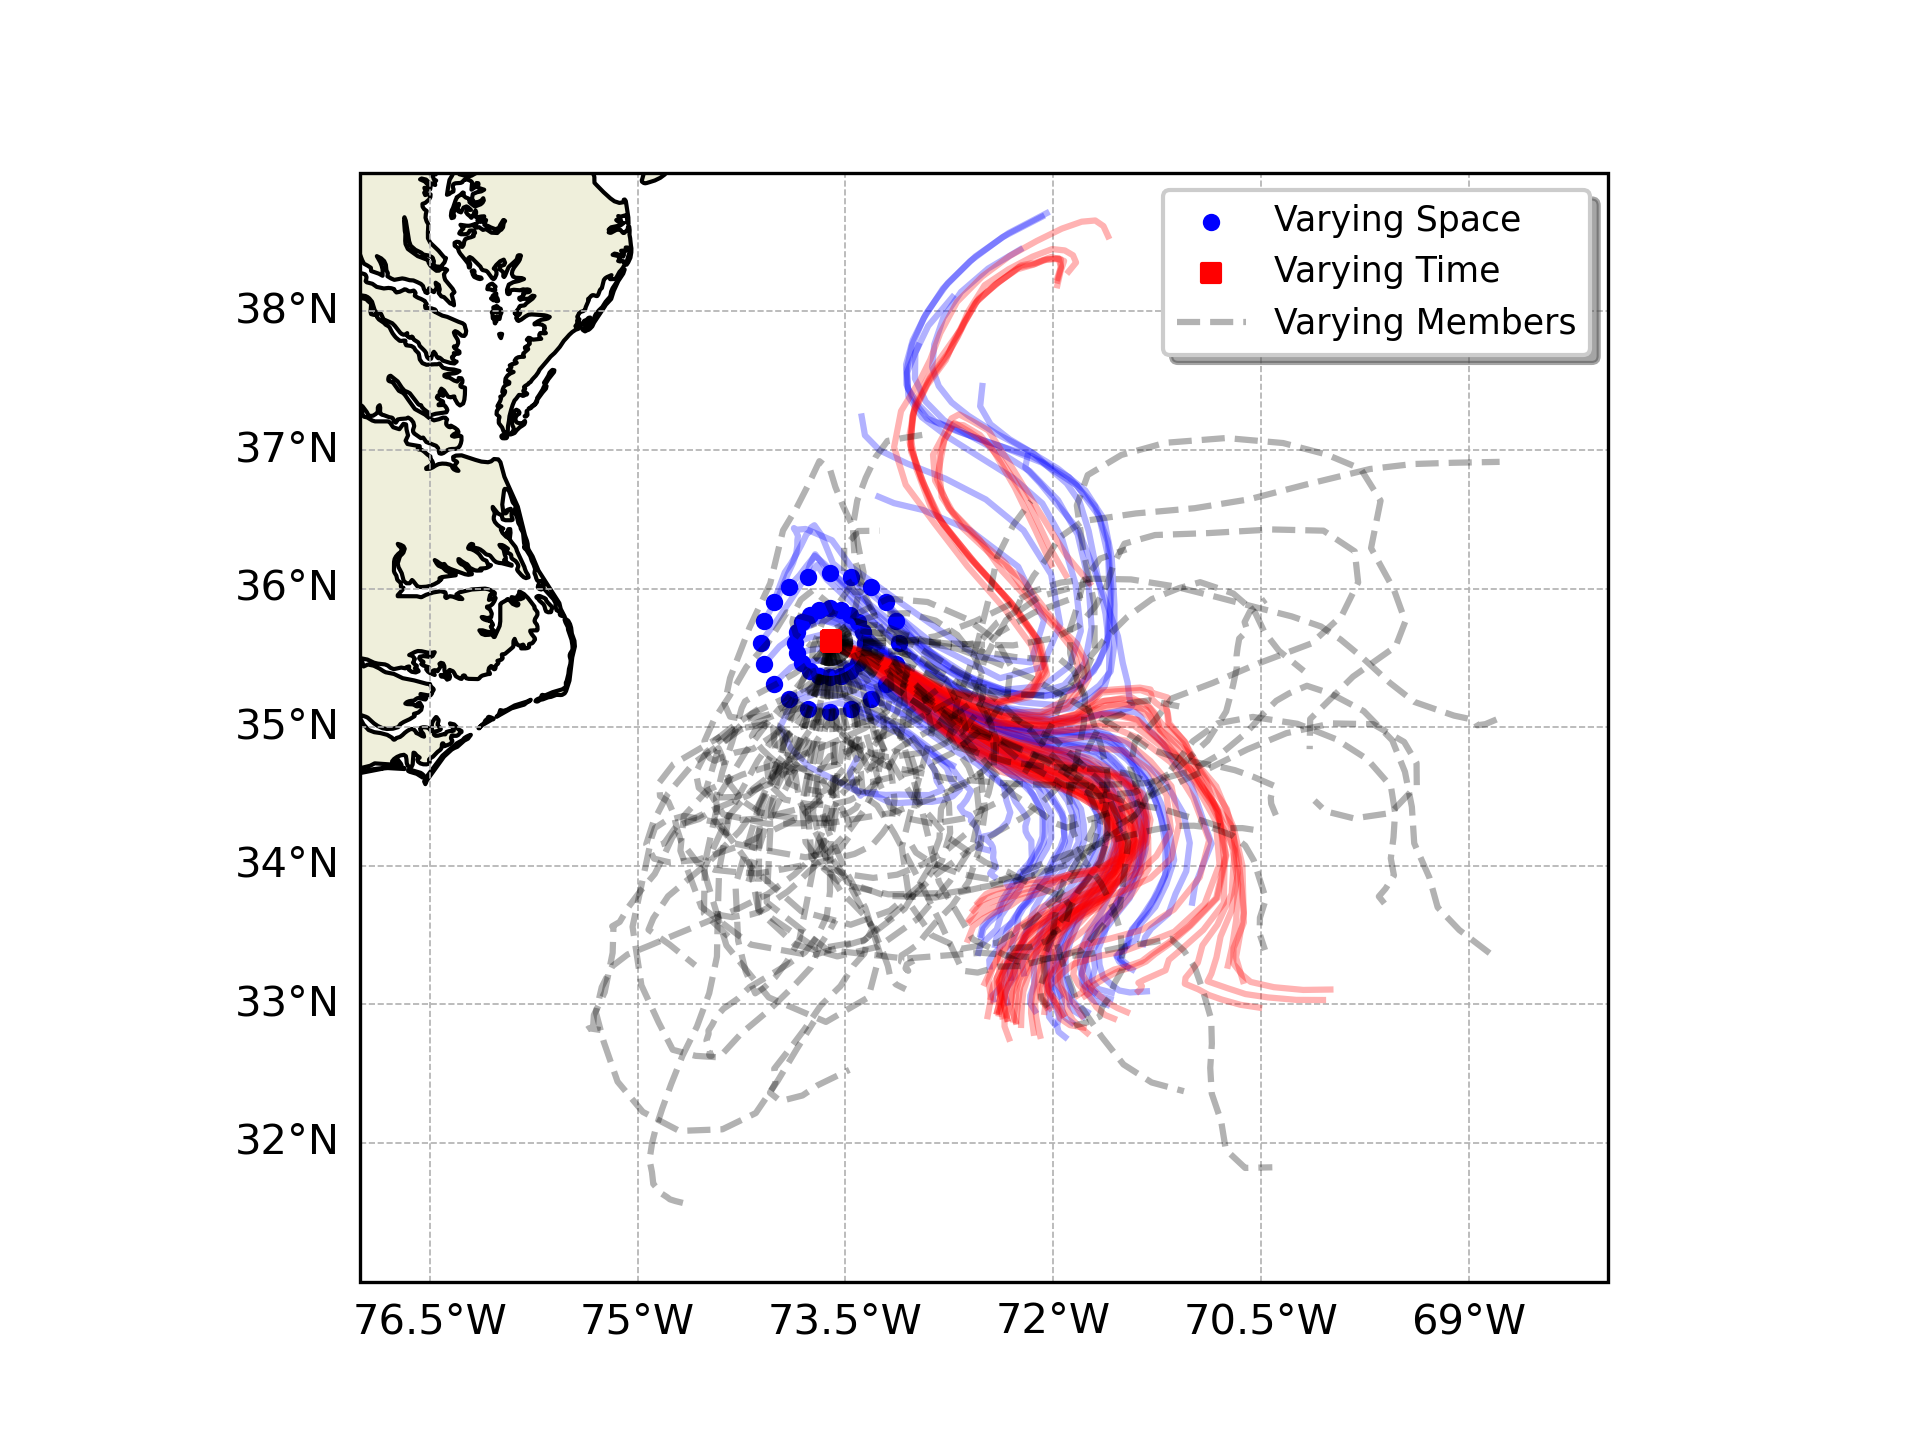
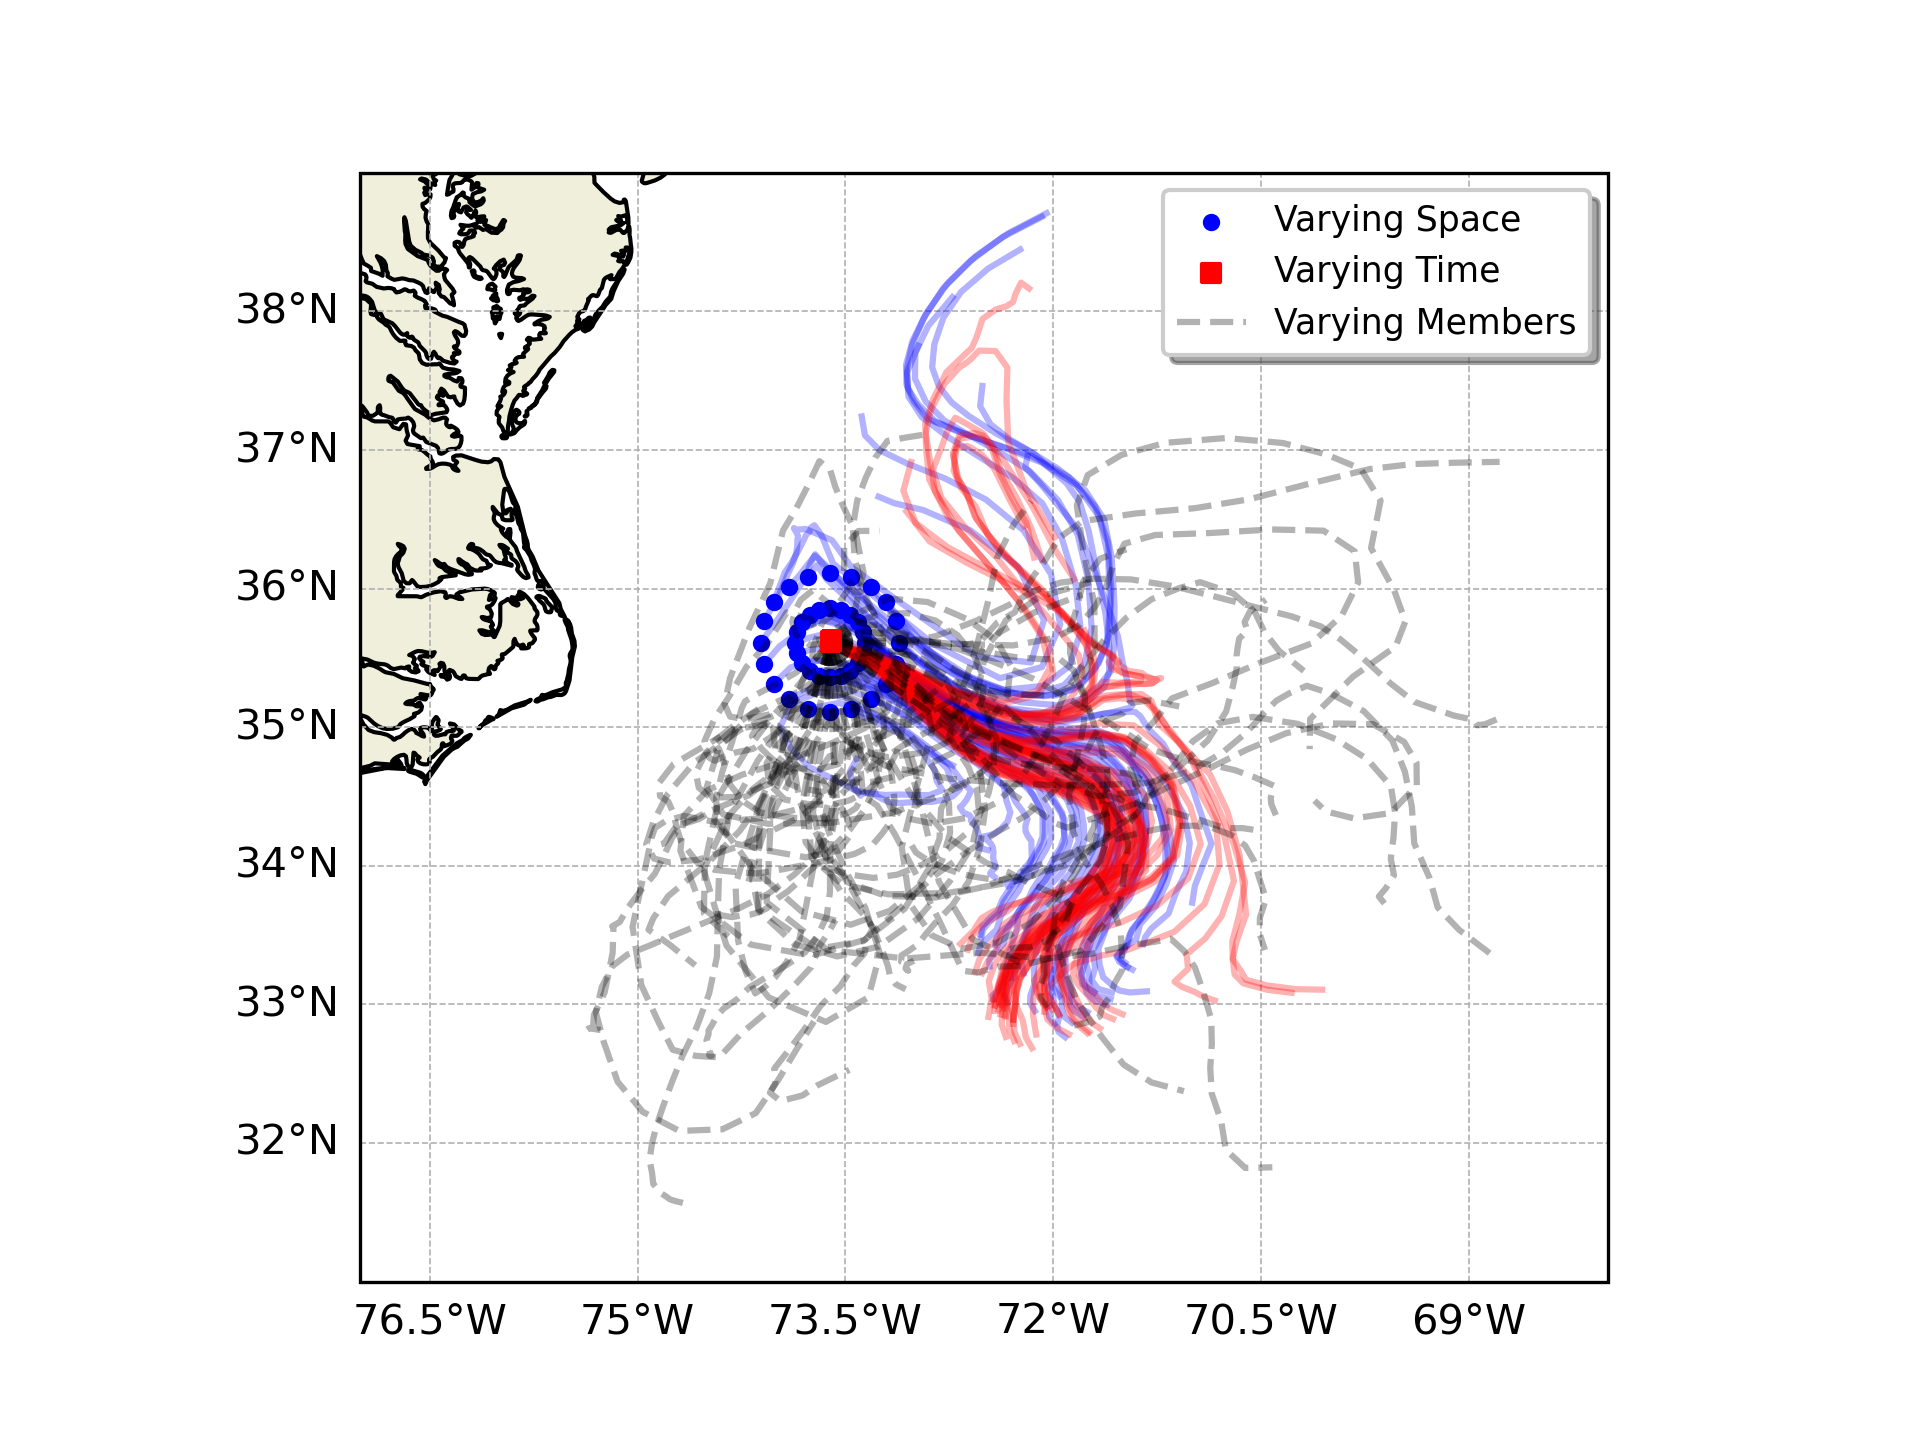
make long simulations space and time

Changed region(s): [[0.4688, 0.1562, 0.6875, 0.7188]]

diff --git a/simulations/ensemble_Member_spatial.py b/simulations/ensemble_Member_spatial.py
@@ -19,12 +19,10 @@ delta_r = args.delta_r
 
 #Some SIMULATION parameter
 location = 'Cape_Hatteras'
-end_time = start_time = np.datetime64('2012-01-02')
 start_time = np.datetime64('2010-01-02')
-# member = 1
-# delta_r = 0.1
+end_time =  np.datetime64('2015-12-31')
 
-outfile = f"/storage/shared/oceanparcels/output_data/data_Claudio/NEMO_Ensemble/{location}/spatial/dr_{delta_r*100:03.0f}/{location}_dr{delta_r*100:03.0f}_m{member:03d}.zarr"
+outfile = f"/storage/shared/oceanparcels/output_data/data_Claudio/NEMO_Ensemble/{location}/spatial_long/dr_{delta_r*100:03.0f}/{location}_dr{delta_r*100:03.0f}_m{member:03d}.zarr"
 print("Output file: ", outfile)
 #%% Import Fieldset
 
@@ -50,8 +48,8 @@ fieldset = FieldSet.from_nemo(filenames, variables, dimensions, netcdf_decodewar
 #%% Declare the ParticleSet
 
 span = delta_r
-L_range = np.linspace(-span, span, 25) # This L_range and theta_range makes that alway there are 1001 particles
-theta_range = np.arange(0, 2*np.pi, np.pi/20)
+L_range = np.linspace(-span, span, 125) # This L_range and theta_range makes that alway there are 1001 particles
+theta_range = np.arange(0, 2*np.pi, np.pi/30)
 
 
 lon_0, lat_0 = (-73.61184289610455, 35.60913368957989)
@@ -64,6 +62,7 @@ for r in L_range:
         lonp.append(lon_0 + np.sin(theta)*r) 
         latp.append(lat_0 + np.cos(theta)*r)
 
+print("Number of particles: ", len(lonp))
 times = [start_time]*len(lonp)
 depp = np.ones(len(lonp))
 hex_ids = [590726022320619519]*len(lonp)

diff --git a/simulations/ensemble_Member_temporal.py b/simulations/ensemble_Member_temporal.py
@@ -19,13 +19,14 @@ location = 'Cape_Hatteras'
 start_time = np.datetime64('2010-01-02')
 end_time = start_time + np.timedelta64(weeks, 'W')
 time_range = np.arange(start_time, end_time, delta(days=1))
-N_particles = 1020
+N_particles = 7520
 subset = int(N_particles/len(time_range)) # Number of particles to release at dt = 1 day
+depth = 1
 
 # If start_time = 2010-01-02, sim_end_time = 2012-01-01
-sim_end_time = start_time + np.timedelta64(730, 'D')
+sim_end_time = np.datetime64('2015-12-31')
 
-outfile = f"/storage/shared/oceanparcels/output_data/data_Claudio/NEMO_Ensemble/{location}/temporal/W_{weeks:01d}/{location}_W{weeks:01d}_m{member:03d}.zarr"
+outfile = f"/storage/shared/oceanparcels/output_data/data_Claudio/NEMO_Ensemble/{location}/temporal_long/W_{weeks:01d}/{location}_W{weeks:01d}_m{member:03d}.zarr"
 print("Output file: ", outfile)
 #%% Import Fieldset
 

diff --git a/plot_scripts/fig1-schematic.py b/plot_scripts/fig1-schematic.py
@@ -95,6 +95,10 @@ ax.plot(pset_temp.lon[indexes, :t].T, pset_temp.lat[indexes, :t].T, c='r',
 ax.plot(mix_lons[:, :t].T, mix_lats[:, :t].T, c='k',
                 ls='--', alpha=0.3, label='Varying Members')
 
+# ax.annotate('', xy=(mix_lons[t, 0], mix_lats[t, 0]), xytext=(mix_lons[t-1, 0], mix_lats[t-1,0]),
+#             arrowprops=dict(arrowstyle="->", color='green', lw=1.5))
+
+
 # Add legend
 handles, labels = ax.get_legend_handles_labels()
 handles = [handles[0], handles[1], handles[-1]]
